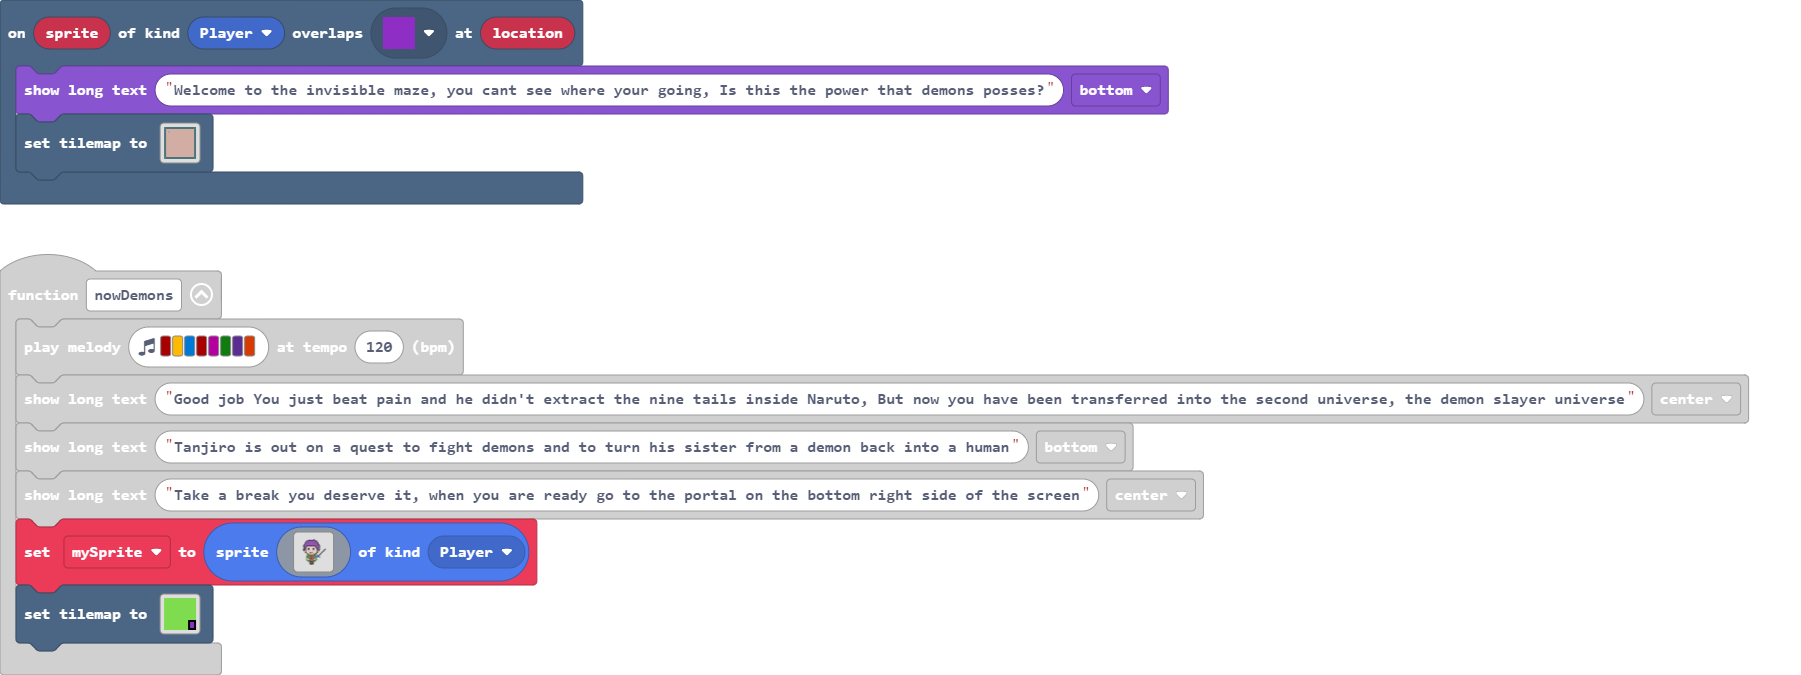
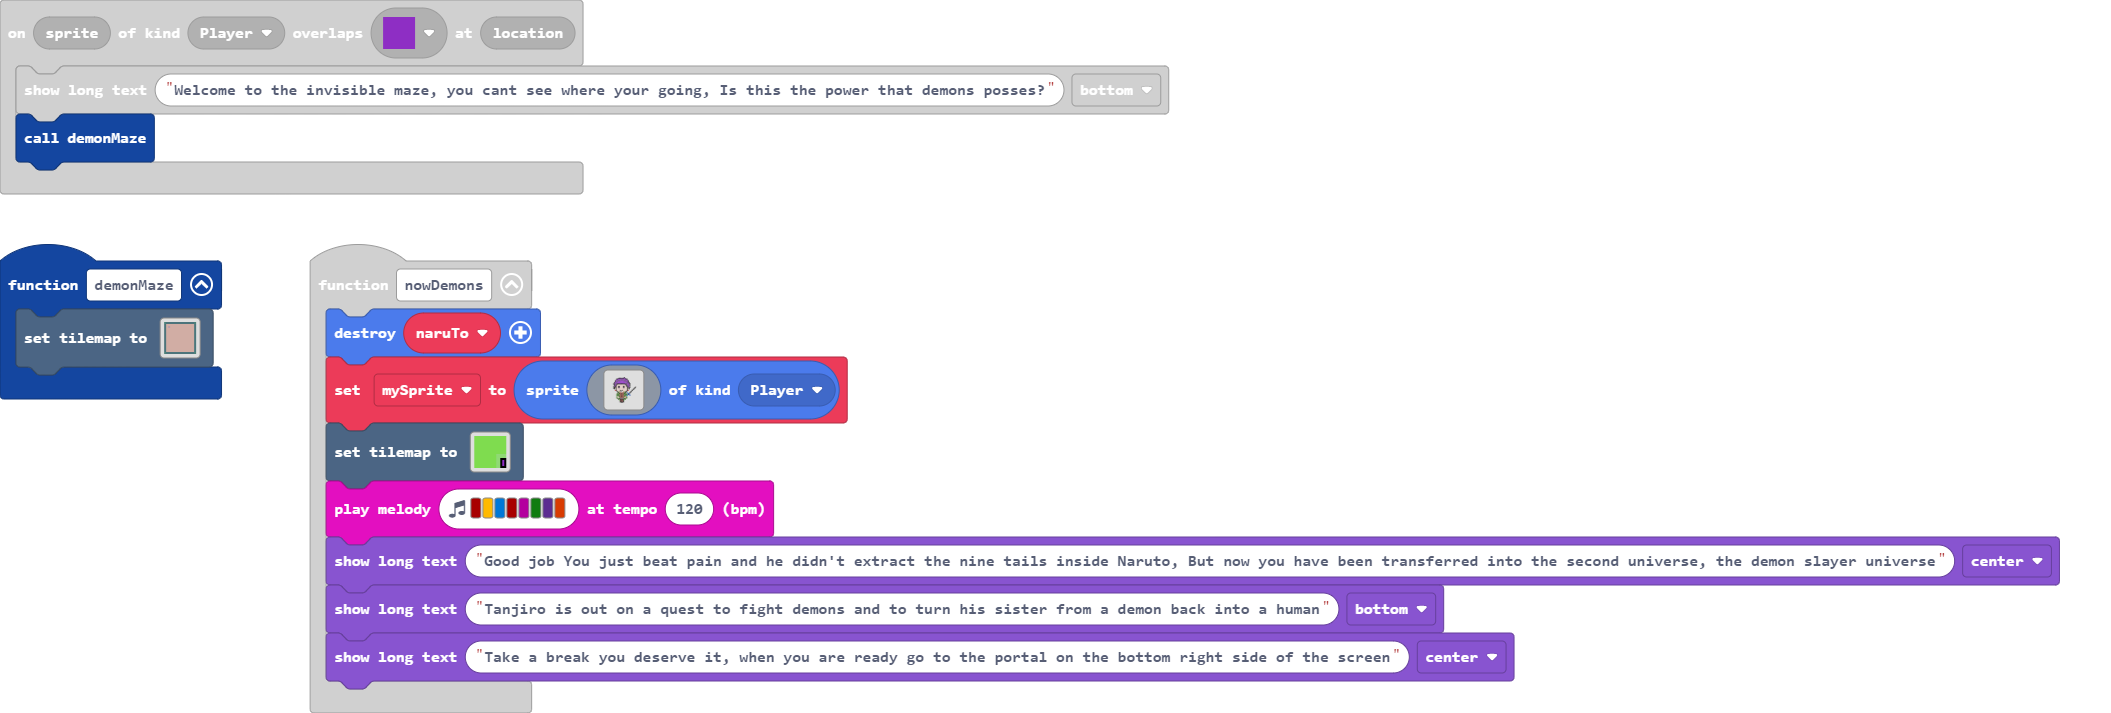
Update main.blocks, main.ts, tilemap.g.jres, tilemap.g.ts

diff --git a/tilemap.g.ts b/tilemap.g.ts
@@ -348,25 +348,6 @@ namespace myTiles {
 . . . . . . . . . . . . . . . . 
 . . . . . . . . . . . . . . . . 
 `, [myTiles.transparency16,sprites.castle.tilePath5], TileScale.Sixteen);
-            case "level18":
-            case "level18":return tiles.createTilemap(hex`1000100001010101010101010101010101010101010101010101010101010101010101010101010101010101010101010101010101010101010101010101010101010101010101010101010101010101010101010101010101010101010101010101010101010101010101010101010101010101010101010101010101010101010101010101010101010101010101010101010101010101010101010101010101010101010101010101010101010101010101010101010101010101010101010202020201010101010101010101010102030302010101010101010101010101020303020101010101010101010101010203030201010101010101010101010102020202`, img`
-. . . . . . . . . . . . . . . . 
-. . . . . . . . . . . . . . . . 
-. . . . . . . . . . . . . . . . 
-. . . . . . . . . . . . . . . . 
-. . . . . . . . . . . . . . . . 
-. . . . . . . . . . . . . . . . 
-. . . . . . . . . . . . . . . . 
-. . . . . . . . . . . . . . . . 
-. . . . . . . . . . . . . . . . 
-. . . . . . . . . . . . . . . . 
-. . . . . . . . . . . . . . . . 
-. . . . . . . . . . . . . . . . 
-. . . . . . . . . . . . . . . . 
-. . . . . . . . . . . . . . . . 
-. . . . . . . . . . . . . . . . 
-. . . . . . . . . . . . . . . . 
-`, [myTiles.transparency16,sprites.castle.tileGrass1,myTiles.tile7,myTiles.tile8], TileScale.Sixteen);
             case "level19":
[1 lines of base64/hex data omitted]
 2 2 2 2 2 2 2 2 2 2 2 2 2 2 2 2 
@@ -386,6 +367,25 @@ namespace myTiles {
 2 . . . . . . . . . . 2 . . . 2 
 2 2 2 2 2 2 2 2 2 2 2 2 2 2 2 2 
 `, [myTiles.transparency16,myTiles.tile9,sprites.dungeon.greenOuterSouthEast,sprites.dungeon.greenOuterNorthEast,sprites.dungeon.greenOuterSouthWest,sprites.dungeon.greenOuterSouth0,sprites.dungeon.greenOuterEast0,sprites.dungeon.greenOuterWest1,sprites.dungeon.greenOuterNorthWest,sprites.dungeon.greenOuterNorth1,sprites.dungeon.floorMixed], TileScale.Sixteen);
+            case "level18":
+            case "level18":return tiles.createTilemap(hex`1000100001010101010101010101010101010101010101010101010101010101010101010101010101010101010101010101010101010101010101010101010101010101010101010101010101010101010101010101010101010101010101010101010101010101010101010101010101010101010101010101010101010101010101010101010101010101010101010101010101010101010101010101010404040404010101010101010101010104040404040101010101010101010101040402020201010101010101010101010404020302010101010101010101010104040203020101010101010101010101040402030201010101010101010101010404020202`, img`
+. . . . . . . . . . . . . . . . 
+. . . . . . . . . . . . . . . . 
+. . . . . . . . . . . . . . . . 
+. . . . . . . . . . . . . . . . 
+. . . . . . . . . . . . . . . . 
+. . . . . . . . . . . . . . . . 
+. . . . . . . . . . . . . . . . 
+. . . . . . . . . . . . . . . . 
+. . . . . . . . . . . . . . . . 
+. . . . . . . . . . . . . . . . 
+. . . . . . . . . . . . . . . . 
+. . . . . . . . . . . . . . . . 
+. . . . . . . . . . . . . . . . 
+. . . . . . . . . . . . . . . . 
+. . . . . . . . . . . . . . . . 
+. . . . . . . . . . . . . . . . 
+`, [myTiles.transparency16,sprites.castle.tileGrass1,myTiles.tile7,myTiles.tile8,sprites.castle.tileGrass2], TileScale.Sixteen);
         }
         return null;
     })

diff --git a/main.ts b/main.ts
@@ -2,6 +2,9 @@ namespace SpriteKind {
     export const boss = SpriteKind.create()
     export const dummy = SpriteKind.create()
 }
+function demonMaze () {
+    tiles.setTilemap(tilemap`level19`)
+}
 controller.up.onEvent(ControllerButtonEvent.Pressed, function () {
     animation.runImageAnimation(
     naruTo,
@@ -12,7 +15,7 @@ controller.up.onEvent(ControllerButtonEvent.Pressed, function () {
 })
 scene.onOverlapTile(SpriteKind.Player, assets.tile`myTile6`, function (sprite, location) {
     game.showLongText("Welcome to the invisible maze, you cant see where your going, Is this the power that demons posses?", DialogLayout.Bottom)
-    tiles.setTilemap(tilemap`level19`)
+    demonMaze()
 })
 function enemYs () {
     enemy1 = sprites.create(img`
@@ -406,12 +409,13 @@ function startLevel () {
     enemYs()
 }
 function nowDemons () {
+    naruTo.destroy()
+    mySprite = sprites.create(assets.image`Tanjiro`, SpriteKind.Player)
+    tiles.setTilemap(tilemap`level18`)
     music.playMelody("C5 A E C5 C G D B ", 120)
     game.showLongText("Good job You just beat pain and he didn't extract the nine tails inside Naruto, But now you have been transferred into the second universe, the demon slayer universe", DialogLayout.Center)
     game.showLongText("Tanjiro is out on a quest to fight demons and to turn his sister from a demon back into a human", DialogLayout.Bottom)
     game.showLongText("Take a break you deserve it, when you are ready go to the portal on the bottom right side of the screen", DialogLayout.Center)
-    mySprite = sprites.create(assets.image`Tanjiro`, SpriteKind.Player)
-    tiles.setTilemap(tilemap`level18`)
 }
 sprites.onOverlap(SpriteKind.Projectile, SpriteKind.Enemy, function (sprite, otherSprite) {
     music.baDing.play()
